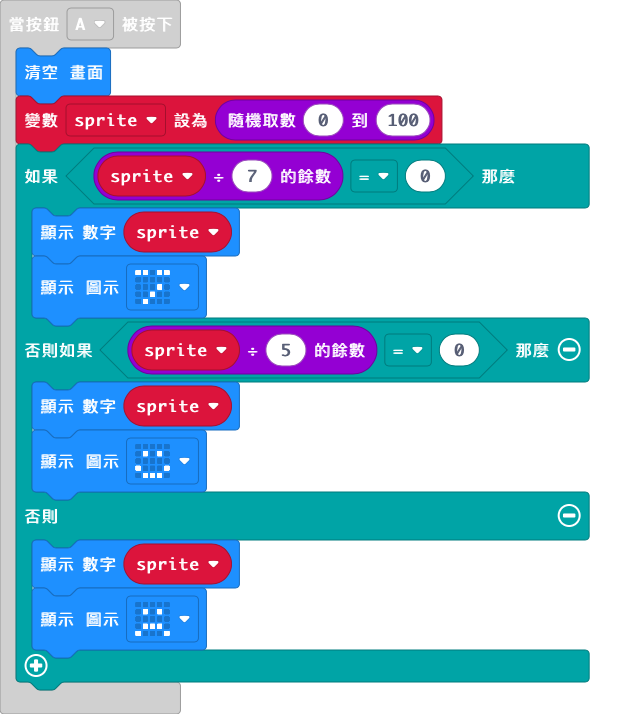
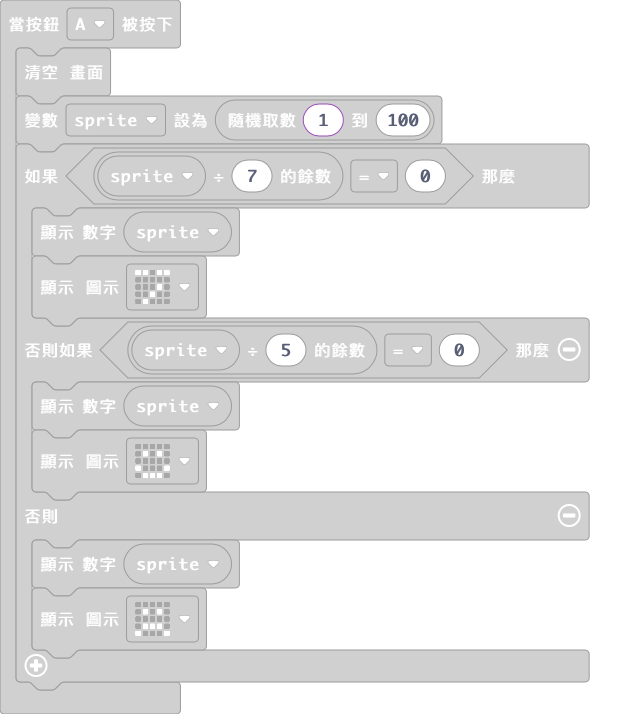
Update main.blocks, main.ts

diff --git a/main.ts b/main.ts
@@ -1,7 +1,7 @@
 let sprite = 0
 input.onButtonPressed(Button.A, function () {
     basic.clearScreen()
-    sprite = randint(0, 100)
+    sprite = randint(1, 100)
     if (sprite % 7 == 0) {
         basic.showNumber(sprite)
         basic.showIcon(IconNames.Meh)
